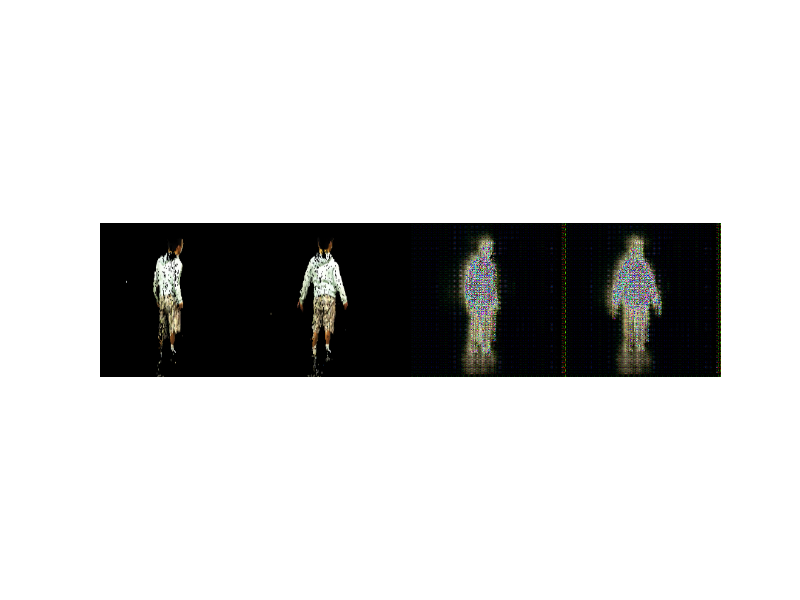
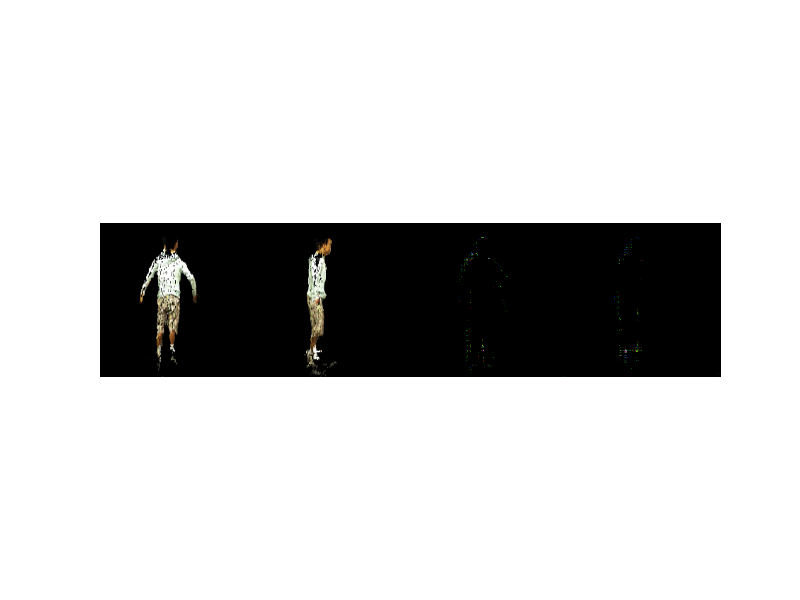
Elu test fails

diff --git a/model/pix2pix_keras.py b/model/pix2pix_keras.py
@@ -26,7 +26,7 @@ def l1_loss(y_true , y_pred):
 
 class  K_DCGAN(data_model):
     def __init__( self  ,flag = "deconv" , epoch=100000,img_shape = [256,256,3]):
-        data_model.__init__(self,"K_DCGAN_dim_256_elu","DCGAN",img_shape=img_shape,epochs=epoch)
+        data_model.__init__(self,"K_DCGAN_dim_256","DCGAN",img_shape=img_shape,epochs=epoch)
         # training params 
         self.patch_size = [64,64]
         self.n_batch_per_epoch = self.batch_size * 100
@@ -40,7 +40,7 @@ class  K_DCGAN(data_model):
     
     def build(self, img_shape):
         self.generator = generator_unet_deconv(img_shape , 2 ,  self.batch_size,
-            model_name="generator_unet_deconv",activation="elu")
+            model_name="generator_unet_deconv",activation=None)
             
         nb_patch , img_shape_disc = get_nb_patch(img_shape ,self.patch_size)
 
@@ -106,8 +106,8 @@ class  K_DCGAN(data_model):
         result = np.hstack((X ,y , X_pred))
         
         check_folders("../figures/%s" % (self.title) )
-        plt.savefig("../figures/%s/current_batch_%s.png" % (self.title,suffix))
         plt.imshow(result)
+        plt.savefig("../figures/%s/current_batch_%s.png" % (self.title,suffix))
         plt.axis("off")
         plt.show()
 

diff --git a/utils.py b/utils.py
@@ -8,7 +8,7 @@ import numpy as np
 import math
 import random
 import re , cv2 , sys
-# import matplotlib.pyplot as plt 
+import matplotlib.pyplot as plt 
 
 def break_point():
     sys.exit(0)
@@ -302,15 +302,15 @@ def plot_generated_batch(X, y, generator_model, batch_size, image_data_format, s
 
         Xr = np.concatenate(list_rows, axis=0)
 
-    # if Xr.shape[-1] == 1:
-    #     plt.imshow(Xr[:, :, 0], cmap="gray")
-    # else:
-    #     plt.imshow(Xr)     
-    # plt.axis("off")
-    # check_folders("../figures/%s" % (model_name) )
-    # plt.savefig("../figures/%s/current_batch_%s.png" % (model_name,suffix))
-    # plt.clf()
-    # plt.close()
+    if Xr.shape[-1] == 1:
+        plt.imshow(Xr[:, :, 0], cmap="gray")
+    else:
+        plt.imshow(Xr)     
+    plt.axis("off")
+    check_folders("../figures/%s" % (model_name) )
+    plt.savefig("../figures/%s/current_batch_%s.png" % (model_name,suffix))
+    plt.clf()
+    plt.close()
 
 def normalization(arr , arr_max , arr_min): # normalized between 0 and 1 
     result = (arr - arr_min)/(arr_max - arr_min)

diff --git a/model/model.py b/model/model.py
@@ -153,9 +153,10 @@ class data_model(object):
         
         check_folders("../figures/%s" % (self.title) )
         plt.imshow(result)
-        plt.savefig("../figures/%s/current_batch_%s.png" % (self.title,suffix))
         plt.axis("off")
         plt.show()
+        plt.savefig("../figures/%s/current_batch_%s.png" % (self.title,suffix))
+
 
 
 if __name__ == "__main__":
